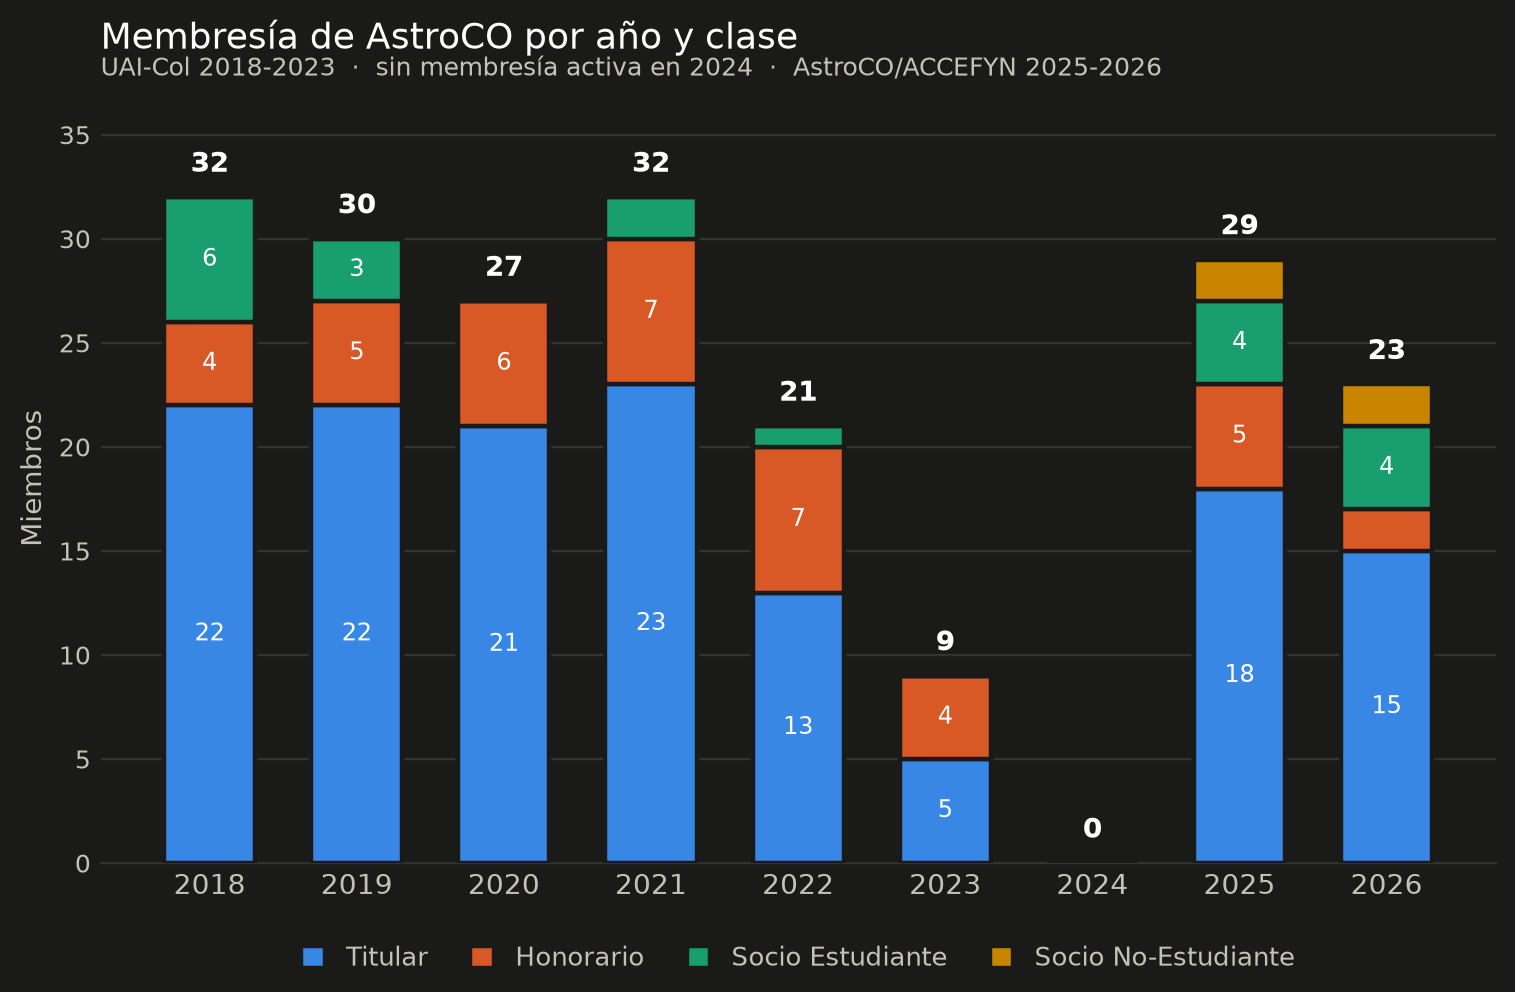
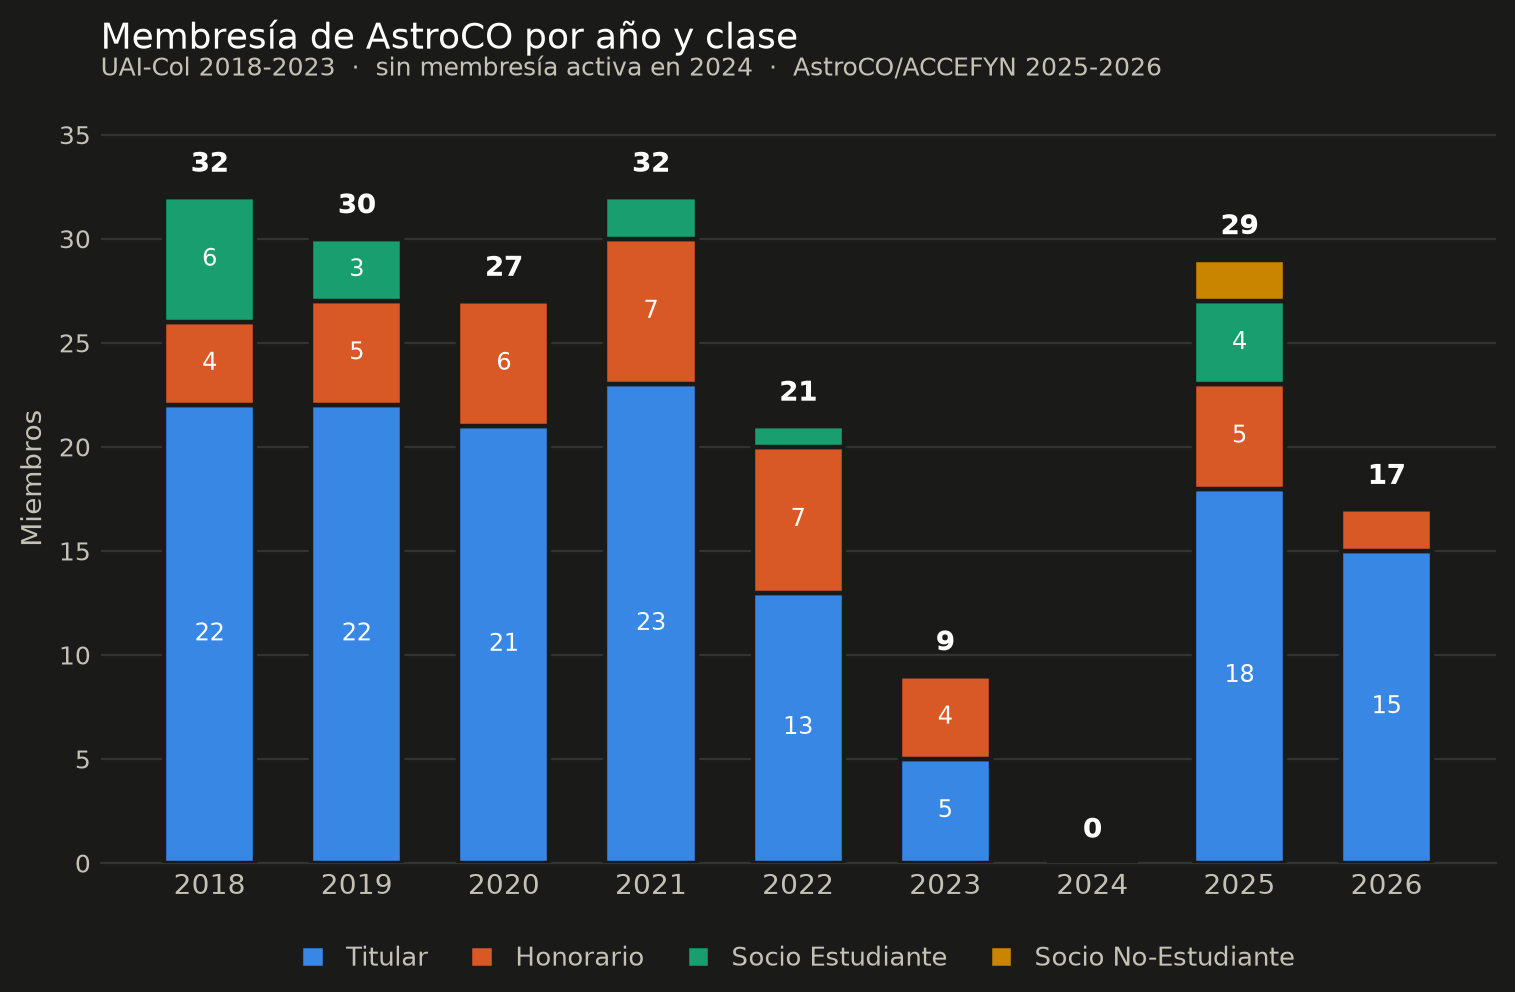
Contar en 2026 solo a quienes llevan asterisco individual
El '*Membresía actualizada 2026' al pie de cada bloque del sitio es la leyenda
del marcador, no una marca de grupo. Socios Estudiantes y No-Estudiantes no
llevan asterisco propio, así que quedan en cero en 2026.

Changed region(s): [[0.8686, 0.3438, 0.9617, 0.5312]]

diff --git a/README.md b/README.md
@@ -16,7 +16,7 @@ Las clases son las que se usan en 2025-2026: **Titular**, **Honorario**,
 
 <picture>
   <source media="(prefers-color-scheme: dark)" srcset="figuras/membresia-por-anio-oscuro.png">
-  <img src="figuras/membresia-por-anio-claro.png" alt="Membresía de AstroCO por año, apilada por clase de membresía: 32 miembros en 2018, 30 en 2019, 27 en 2020, 32 en 2021, 21 en 2022, 9 en 2023, ninguno en 2024, 29 en 2025 y 23 en 2026.">
+  <img src="figuras/membresia-por-anio-claro.png" alt="Membresía de AstroCO por año, apilada por clase de membresía: 32 miembros en 2018, 30 en 2019, 27 en 2020, 32 en 2021, 21 en 2022, 9 en 2023, ninguno en 2024, 29 en 2025 y 17 en 2026.">
 </picture>
 
 | Año | Titular | Honorario | Socio Estudiante | Socio No-Estudiante | Total |
@@ -29,7 +29,7 @@ Las clases son las que se usan en 2025-2026: **Titular**, **Honorario**,
 | 2023 | 5 | 4 | 0 | 0 | 9 |
 | 2024 | 0 | 0 | 0 | 0 | 0 |
 | 2025 | 18 | 5 | 4 | 2 | 29 |
-| 2026 | 15 | 2 | 4 | 2 | 23 |
+| 2026 | 15 | 2 | 0 | 0 | 17 |
 
 Tabla y figura generadas automáticamente; ver [RESUMEN.md](RESUMEN.md).
 
@@ -95,8 +95,12 @@ Estas son lecturas de la fuente, no datos originales. Corregirlas es bienvenido.
    en 2024 no hubo membresía activa, así que su registro se recorta a 2023
    (`rango supuesto recortado`).
 4. **2025 vs 2026.** El sitio actual lista los miembros vigentes y marca con
-   `*` la membresía actualizada en 2026. Se asume que quienes no llevan `*`
-   renovaron por última vez en 2025.
+   `*` a cada persona cuya membresía se actualizó en 2026. En 2026 se cuentan
+   **solo las personas con asterisco**; quienes no lo llevan renovaron por
+   última vez en 2025. El `*Membresía actualizada 2026` que cierra cada bloque
+   del sitio es la leyenda de ese marcador, no una marca que aplique al grupo
+   completo: por eso los Socios Estudiantes y los Socios No-Estudiantes, que no
+   llevan asterisco individual, aparecen en cero en 2026.
 5. **Sin años.** Lauren Flor y Jorge Arias de Greiff aparecen en la lista de
    UAI-Col sin años; no cuentan en ningún año hasta que se registren.
 6. Los nombres se transcriben como en la fuente, incluidos posibles errores de

diff --git a/RESUMEN.md b/RESUMEN.md
@@ -12,4 +12,4 @@ Generado por `scripts/construir.py`. No editar a mano.
 | 2023 | 5 | 4 | 0 | 0 | 9 |
 | 2024 | 0 | 0 | 0 | 0 | 0 |
 | 2025 | 18 | 5 | 4 | 2 | 29 |
-| 2026 | 15 | 2 | 4 | 2 | 23 |
+| 2026 | 15 | 2 | 0 | 0 | 17 |
